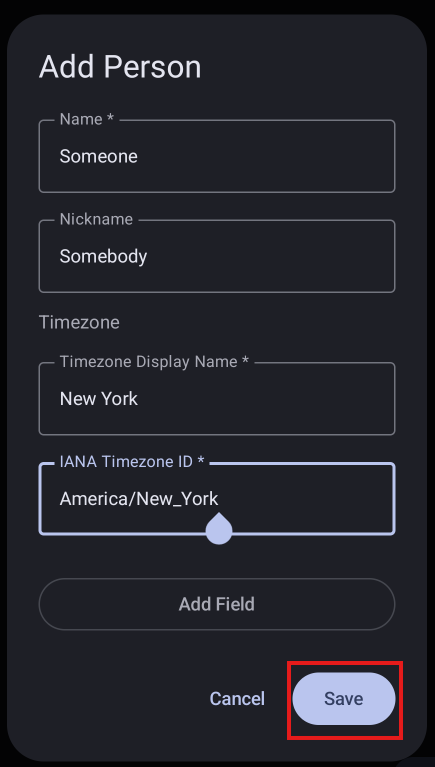
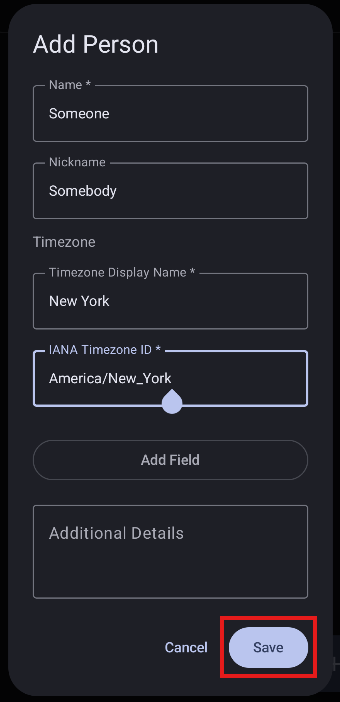
Add 'Additional Details' field

diff --git a/app/src/main/java/com/miyuki/timezones/ui/components/PersonDetailsDialog.kt b/app/src/main/java/com/miyuki/timezones/ui/components/PersonDetailsDialog.kt
@@ -14,7 +14,6 @@ import androidx.compose.foundation.layout.fillMaxWidth
 import androidx.compose.foundation.layout.height
 import androidx.compose.foundation.layout.heightIn
 import androidx.compose.foundation.layout.padding
-import androidx.compose.foundation.layout.width
 import androidx.compose.foundation.layout.widthIn
 import androidx.compose.foundation.rememberScrollState
 import androidx.compose.foundation.shape.RoundedCornerShape
@@ -23,16 +22,17 @@ import androidx.compose.material3.Button
 import androidx.compose.material3.ButtonDefaults
 import androidx.compose.material3.MaterialTheme
 import androidx.compose.material3.OutlinedButton
-import androidx.compose.material3.Surface
 import androidx.compose.material3.Text
 import androidx.compose.runtime.Composable
 import androidx.compose.runtime.getValue
 import androidx.compose.runtime.remember
 import androidx.compose.ui.Alignment
 import androidx.compose.ui.Modifier
-import androidx.compose.ui.geometry.Offset
 import androidx.compose.ui.graphics.Brush
 import androidx.compose.ui.graphics.Color
+import androidx.compose.ui.draw.drawWithCache
+import androidx.compose.ui.geometry.Offset
+import androidx.compose.ui.geometry.CornerRadius
 import androidx.compose.ui.text.font.FontWeight
 import androidx.compose.ui.text.style.TextAlign
 import androidx.compose.ui.text.style.TextOverflow
@@ -44,6 +44,7 @@ import com.miyuki.timezones.R
 import com.miyuki.timezones.data.CustomField
 import com.miyuki.timezones.data.Person
 import com.miyuki.timezones.data.Timezone
+import com.miyuki.timezones.ui.theme.DecorativeBorderWidth
 import java.time.ZoneId
 import java.time.ZonedDateTime
 
@@ -85,7 +86,7 @@ fun PersonDetailsDialog(
                         1f to Color.Transparent,
                     ), shape,
                 )
-                .border(1.dp, outline, shape)
+                .border(DecorativeBorderWidth, outline, shape)
                 .padding(22.dp),
         ) {
             Column {
@@ -119,7 +120,7 @@ fun PersonDetailsDialog(
                             modifier = Modifier
                                 .fillMaxWidth()
                                 .background(animatedPhase.copy(alpha = 0.10f), RoundedCornerShape(18.dp))
-                                .border(1.dp, animatedPhase.copy(alpha = 0.40f), RoundedCornerShape(18.dp))
+                                .border(DecorativeBorderWidth, animatedPhase.copy(alpha = 0.40f), RoundedCornerShape(18.dp))
                                 .padding(16.dp),
                             verticalArrangement = Arrangement.spacedBy(5.dp),
                         ) {
@@ -145,7 +146,53 @@ fun PersonDetailsDialog(
                     customFields.forEach { field ->
                         DetailCard(field.name, field.value, animatedPhase)
                     }
-                    if (timezone == null && customFields.isEmpty()) {
+                    if (!person.description.isNullOrBlank()) {
+                        Column(
+                            modifier = Modifier.fillMaxWidth(),
+                            verticalArrangement = Arrangement.spacedBy(8.dp),
+                        ) {
+                            Spacer(Modifier.height(2.dp))
+                            Text(
+                                text = stringResource(R.string.additional_details),
+                                style = MaterialTheme.typography.labelLarge,
+                                color = colors.onSurfaceVariant,
+                                modifier = Modifier.padding(start = 4.dp),
+                            )
+                            val descriptionShape = RoundedCornerShape(16.dp)
+                            Box(
+                                modifier = Modifier
+                                    .fillMaxWidth()
+                                    .drawWithCache {
+                                        val gradient = Brush.linearGradient(
+                                            colorStops = arrayOf(
+                                                0f to colors.surfaceContainer.copy(alpha = 0.65f),
+                                                0.35f to colors.surfaceContainer.copy(alpha = 0.55f),
+                                                0.85f to Color.Black.copy(alpha = 0.35f),
+                                                1f to Color.Black.copy(alpha = 0.35f),
+                                            ),
+                                            start = Offset.Zero,
+                                            end = Offset(size.width * 0.20f, size.height),
+                                        )
+                                        onDrawBehind {
+                                            drawRoundRect(
+                                                brush = gradient,
+                                                cornerRadius = CornerRadius(16.dp.toPx()),
+                                            )
+                                        }
+                                    }
+                                    .border(DecorativeBorderWidth, animatedPhase.copy(alpha = 0.22f), descriptionShape)
+                                    .padding(horizontal = 16.dp, vertical = 14.dp),
+                            ) {
+                                Text(
+                                    text = person.description,
+                                    style = MaterialTheme.typography.bodyMedium,
+                                    color = colors.onSurface,
+                                )
+                            }
+                        }
+                    }
+
+                    if (timezone == null && customFields.isEmpty() && person.description.isNullOrBlank()) {
                         Text(
                             text = stringResource(R.string.no_additional_details),
                             style = MaterialTheme.typography.bodyMedium,
@@ -191,7 +238,7 @@ private fun DetailCard(label: String, value: String, accent: Color) {
         modifier = Modifier
             .fillMaxWidth()
             .background(colors.surfaceContainer.copy(alpha = 0.65f), shape)
-            .border(1.dp, accent.copy(alpha = 0.22f), shape)
+            .border(DecorativeBorderWidth, accent.copy(alpha = 0.22f), shape)
             .padding(horizontal = 16.dp, vertical = 14.dp),
         verticalAlignment = Alignment.CenterVertically,
         horizontalArrangement = Arrangement.spacedBy(12.dp),

diff --git a/app/src/main/java/com/miyuki/timezones/ui/MainScreen.kt b/app/src/main/java/com/miyuki/timezones/ui/MainScreen.kt
@@ -60,6 +60,7 @@ import com.miyuki.timezones.ui.components.PersonDetailsDialog
 import com.miyuki.timezones.ui.components.PersonEditorDialog
 import com.miyuki.timezones.ui.components.TimeComparisonDialog
 import com.miyuki.timezones.ui.components.TimezoneReorderDialog
+import com.miyuki.timezones.ui.theme.DecorativeBorderWidth
 import com.miyuki.timezones.viewmodel.PeopleViewModel
 import com.miyuki.timezones.viewmodel.PeopleViewModelFactory
 import kotlinx.coroutines.delay
@@ -177,6 +178,7 @@ fun MainScreen() {
             onSave = {
                     name,
                     nickname,
+                    description,
                     timezoneId,
                     newTimezoneId,
                     newTimezoneName,
@@ -194,6 +196,7 @@ fun MainScreen() {
                     viewModel.addPerson(
                         name = name,
                         nickname = nickname.ifBlank { null },
+                        description = description?.ifBlank { null },
                         timezoneId = timezoneId,
                         customFields = fields,
                     )
@@ -206,6 +209,7 @@ fun MainScreen() {
                         viewModel.addPerson(
                             name = name,
                             nickname = nickname.ifBlank { null },
+                            description = description?.ifBlank { null },
                             timezoneId = createdTimezoneId,
                             customFields = fields,
                         )
@@ -244,7 +248,7 @@ fun MainScreen() {
             onDismiss = {
                 showEditPerson = false
             },
-            onSave = { _, _, _, _, _, _ -> },
+            onSave = { _, _, _, _, _, _, _ -> },
             onSaveEdit = { updatedPerson, updatedFields, newTimezoneId, newTimezoneName ->
                 if (newTimezoneId != null && newTimezoneName != null) {
                     viewModel.addTimezone(
@@ -552,7 +556,7 @@ private fun TimezoneCard(
             )
             .border(
                 border = BorderStroke(
-                    width = 1.dp,
+                    width = DecorativeBorderWidth,
                     color = phase.color.copy(alpha = 0.65f),
                 ),
                 shape = shape,
@@ -652,7 +656,7 @@ private fun PeopleChips(
                         shape = RoundedCornerShape(10.dp),
                     )
                     .border(
-                        width = 1.dp,
+                        width = DecorativeBorderWidth,
                         color = accentColor.copy(alpha = 0.45f),
                         shape = RoundedCornerShape(10.dp),
                     )

diff --git a/app/src/main/java/com/miyuki/timezones/ui/components/PersonEditorDialog.kt b/app/src/main/java/com/miyuki/timezones/ui/components/PersonEditorDialog.kt
@@ -52,6 +52,7 @@ fun PersonEditorDialog(
     onSave: (
         name: String,
         nickname: String,
+        description: String?,
         timezoneId: Long?,
         newTimezoneId: String,
         newTimezoneName: String,
@@ -67,6 +68,10 @@ fun PersonEditorDialog(
     }
     var nickname by remember(person?.id) {
         mutableStateOf(person?.nickname.orEmpty())
+    }
+
+    var description by remember(person?.id) {
+        mutableStateOf(person?.description.orEmpty())
     }
 
     val prioritizedTimezones = remember(timezones) {
@@ -404,6 +409,15 @@ fun PersonEditorDialog(
                         Text(stringResource(R.string.add_custom_field))
                     }
 
+                    OutlinedTextField(
+                        value = description,
+                        onValueChange = { description = it },
+                        label = { Text(stringResource(R.string.additional_details)) },
+                        minLines = 3,
+                        maxLines = 8,
+                        modifier = Modifier.fillMaxWidth(),
+                    )
+
                     if (errorMessage != null) {
                         Text(stringResource(errorMessage!!))
                     }
@@ -449,6 +463,7 @@ fun PersonEditorDialog(
                                 onSave(
                                     name.trim(),
                                     nickname.trim(),
+                                    description.trim().ifBlank { null },
                                     if (creatingTimezone) {
                                         null
                                     } else {
@@ -472,6 +487,7 @@ fun PersonEditorDialog(
                                 val updatedPerson = person.copy(
                                     name = name.trim(),
                                     nickname = nickname.trim().ifBlank { null },
+                                    description = description.trim().ifBlank { null },
                                     timezoneId = targetTimezoneId,
                                 )
 

diff --git a/app/src/main/java/com/miyuki/timezones/data/DatabaseProvider.kt b/app/src/main/java/com/miyuki/timezones/data/DatabaseProvider.kt
@@ -2,8 +2,17 @@ package com.miyuki.timezones.data
 
 import android.content.Context
 import androidx.room3.Room
+import androidx.room3.migration.Migration
+import androidx.sqlite.SQLiteConnection
+import androidx.sqlite.execSQL
 
 object DatabaseProvider {
+    private val MIGRATION_2_3 = object : Migration(2, 3) {
+        override suspend fun migrate(connection: SQLiteConnection) {
+            connection.execSQL("ALTER TABLE people ADD COLUMN description TEXT")
+        }
+    }
+
     @Volatile
     private var instance: AppDatabase? = null
 
@@ -13,7 +22,7 @@ object DatabaseProvider {
                 context.applicationContext,
                 AppDatabase::class.java,
                 "timezones.db"
-            ).build().also {
+            ).addMigrations(MIGRATION_2_3).build().also {
                 instance = it
             }
         }

diff --git a/app/src/main/java/com/miyuki/timezones/viewmodel/PeopleViewModel.kt b/app/src/main/java/com/miyuki/timezones/viewmodel/PeopleViewModel.kt
@@ -34,6 +34,7 @@ class PeopleViewModel(
     fun addPerson(
         name: String,
         nickname: String?,
+        description: String?,
         timezoneId: Long,
         customFields: List<CustomField>
     ) {
@@ -41,6 +42,7 @@ class PeopleViewModel(
             repository.addPerson(
                 name = name,
                 nickname = nickname,
+                description = description,
                 timezoneId = timezoneId,
                 customFields = customFields
             )

diff --git a/app/src/main/java/com/miyuki/timezones/repository/PeopleRepository.kt b/app/src/main/java/com/miyuki/timezones/repository/PeopleRepository.kt
@@ -43,6 +43,7 @@ class PeopleRepository(
     suspend fun addPerson(
         name: String,
         nickname: String?,
+        description: String?,
         timezoneId: Long,
         customFields: List<CustomField>
     ) {
@@ -51,6 +52,7 @@ class PeopleRepository(
                 Person(
                     name = name,
                     nickname = nickname,
+                    description = description,
                     timezoneId = timezoneId
                 )
             )

diff --git a/app/src/main/java/com/miyuki/timezones/ui/theme/Theme.kt b/app/src/main/java/com/miyuki/timezones/ui/theme/Theme.kt
@@ -8,6 +8,9 @@ import androidx.compose.material3.dynamicLightColorScheme
 import androidx.compose.material3.lightColorScheme
 import androidx.compose.runtime.Composable
 import androidx.compose.ui.platform.LocalContext
+import androidx.compose.ui.unit.dp
+
+val DecorativeBorderWidth = 1.2.dp
 
 private val DarkColorScheme = darkColorScheme(
     primary = Purple80,

diff --git a/app/src/main/java/com/miyuki/timezones/data/AppDatabase.kt b/app/src/main/java/com/miyuki/timezones/data/AppDatabase.kt
@@ -9,7 +9,7 @@ import androidx.room3.RoomDatabase
         Timezone::class,
         CustomField::class
     ],
-    version = 2,
+    version = 3,
     exportSchema = false
 )
 abstract class AppDatabase : RoomDatabase() {

diff --git a/app/src/main/java/com/miyuki/timezones/data/Person.kt b/app/src/main/java/com/miyuki/timezones/data/Person.kt
@@ -24,5 +24,6 @@ data class Person(
     val id: Long = 0,
     val name: String,
     val nickname: String?,
+    val description: String? = null,
     val timezoneId: Long
 )

diff --git a/README.md b/README.md
@@ -76,7 +76,7 @@ custom information you added.
 
 <img src="readme/09.png" width="300" alt="Person Details">
 
-To add custom information, in the Add Person or Edit Person dialog (Press 'Edit Details' in the
+To add custom information, use the Additional Information field, or in the Add Person or Edit Person dialog (Press 'Edit Details' in the
 Details dialog), click the "Add Field" button.
 
 <img src="readme/10.png" width="300" alt="Add Field button">
